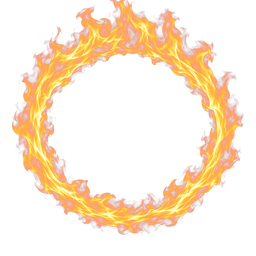
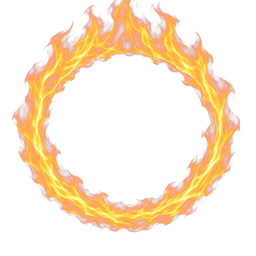
Sole Survivor halo: swap to the upward-sweeping fire ring
Replace the flame artwork with a calmer ring whose licks sweep upward rather
than flickering — same recentring and keying. Refit to the new inner hole
(53% of radius): halo box 57px (lg) / 49px (md).

Changed region(s): [[0.0312, 0.0, 0.9688, 0.9375]]

diff --git a/frontend/src/index.css b/frontend/src/index.css
@@ -696,16 +696,16 @@ html.locked-night .app-shell .ss-champion::before {
 
 /* Sizing is measured, not eyeballed (design/sole-survivor-flames/fit_asset.py):
    a full photographic fire ring, recentred so the ring is dead-centre, with a
-   clear inner hole at ~52% of its radius. Rendered COMPACT — the portrait
+   clear inner hole at ~53% of its radius. Rendered COMPACT — the portrait
    covers the inner half of the thick flame band, so a ~7px ring licks out past
-   the rim and the footprint stays close to the old treatment's. 59px behind the
-   42px (lg) portrait, 50px behind the 36px (md) one. */
+   the rim and the footprint stays close to the old treatment's. 57px behind the
+   42px (lg) portrait, 49px behind the 36px (md) one. */
 .sole-survivor-halo {
-  --sole-survivor-halo-size: 50px;
+  --sole-survivor-halo-size: 49px;
   isolation: isolate;
 }
 .sole-survivor-halo--prominent {
-  --sole-survivor-halo-size: 59px;
+  --sole-survivor-halo-size: 57px;
 }
 .sole-survivor-halo::after {
   content: "";
